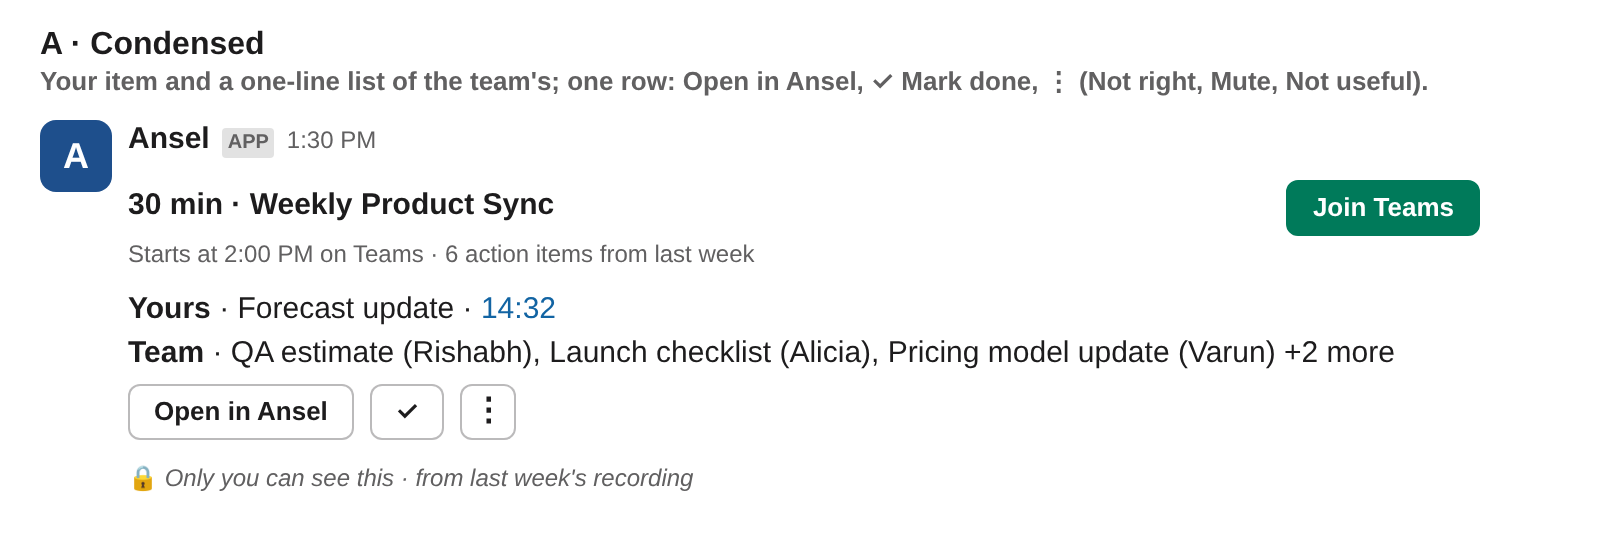
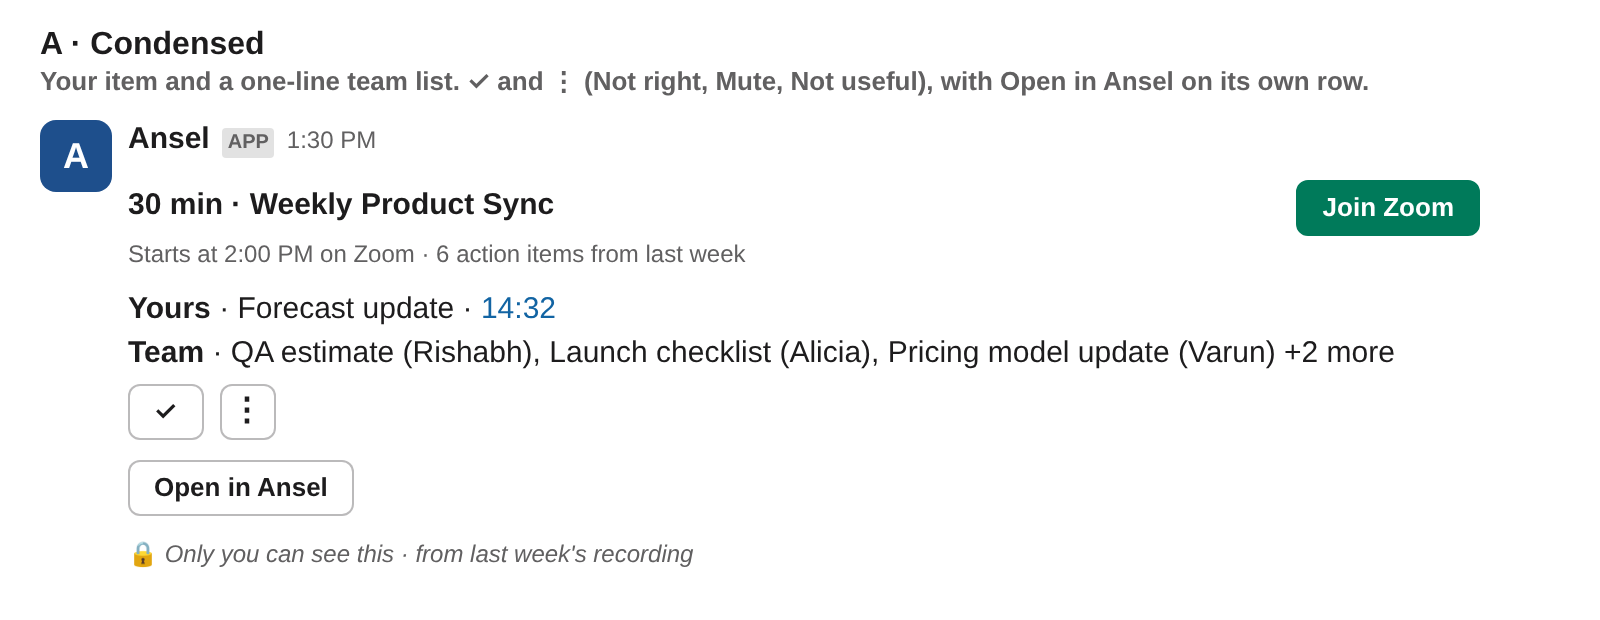
Condensed previews: Zoom, Open in Ansel as its own button
Claude-Session: https://claude.ai/code/session_01SoGk1RXc8CwLh1htLSh9WK

Changed region(s): [[0.0, 0.0312, 0.9062, 0.8438], [0.7812, 0.2812, 0.9375, 0.4375], [0.0625, 0.8438, 0.4375, 0.9062]]

diff --git a/card/slack-mockups/README.md b/card/slack-mockups/README.md
@@ -16,4 +16,4 @@ The images are approximations drawn outside Slack (stand-in font; spacing and bu
 
 ## Condensed previews (not built)
 
-`condensed/` has three shorter directions, previews only: **A · Condensed** (your item + a one-line team list, one row of buttons), **B · Minimal** (two lines, Open in Ansel / ✓ / ⋮), **C · Glance** (one section + links; everything else in Ansel). Each has a `.blocks.json` for Block Kit Builder.
+`condensed/` has three shorter directions, previews only: **A · Condensed** (your item + a one-line team list; ✓ and ⋮, then Open in Ansel on its own row), **B · Minimal** (two lines; ✓ and ⋮, then Open in Ansel), **C · Glance** (two lines and a link; only Join and Open in Ansel are buttons). All use Zoom. Each has a `.blocks.json` for Block Kit Builder.
